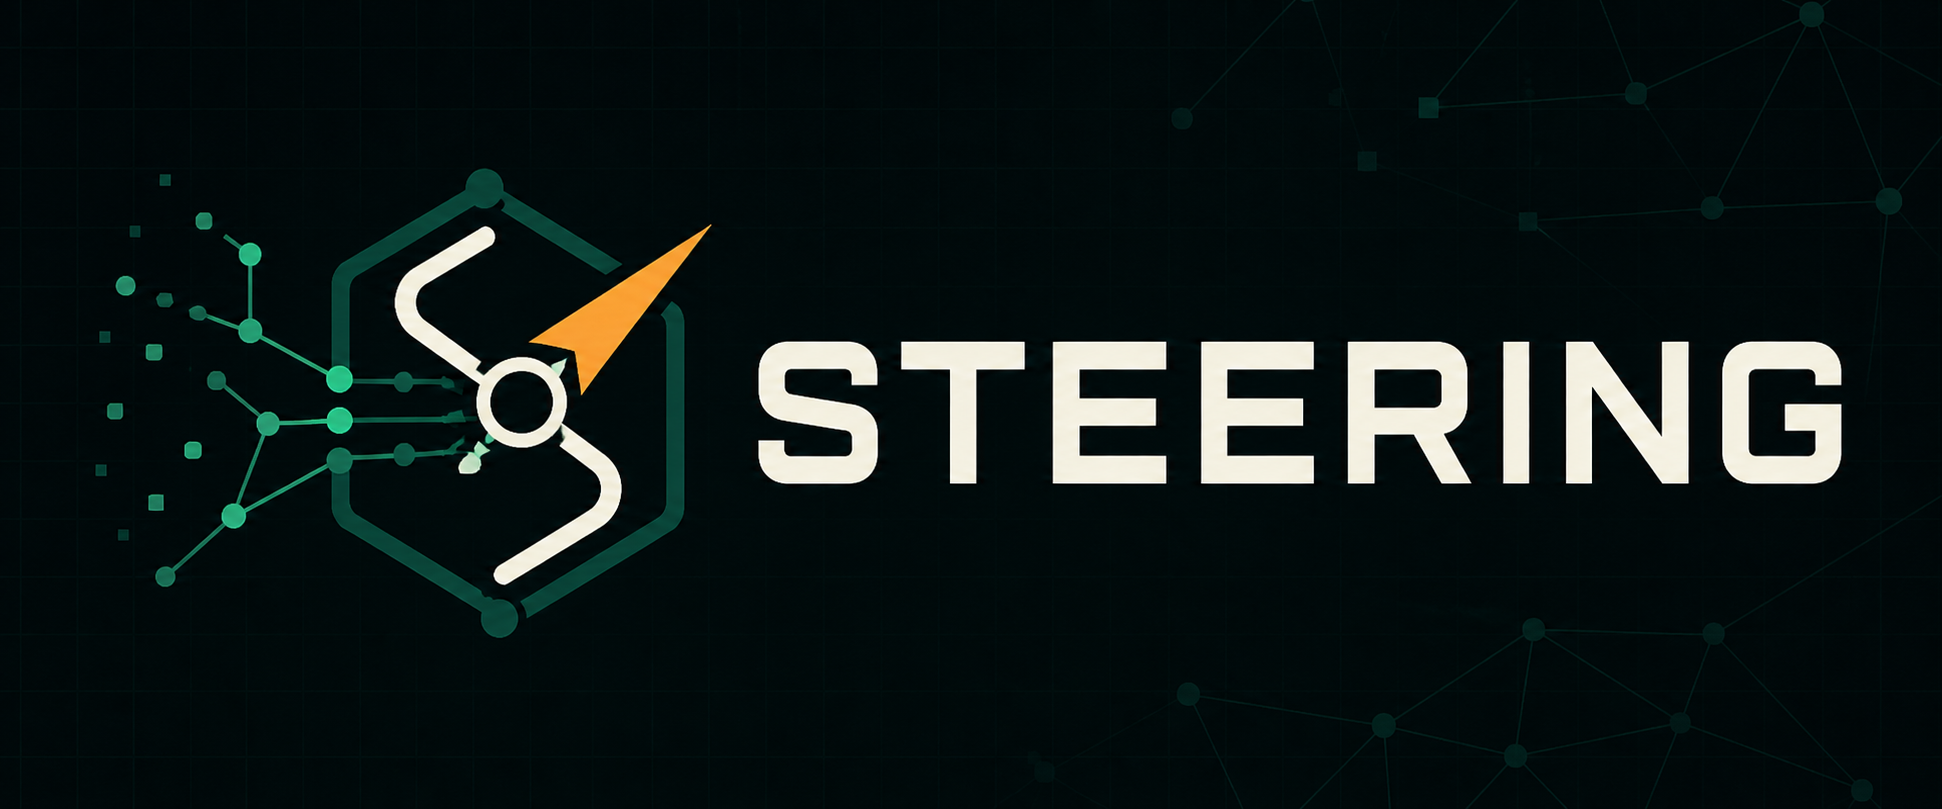
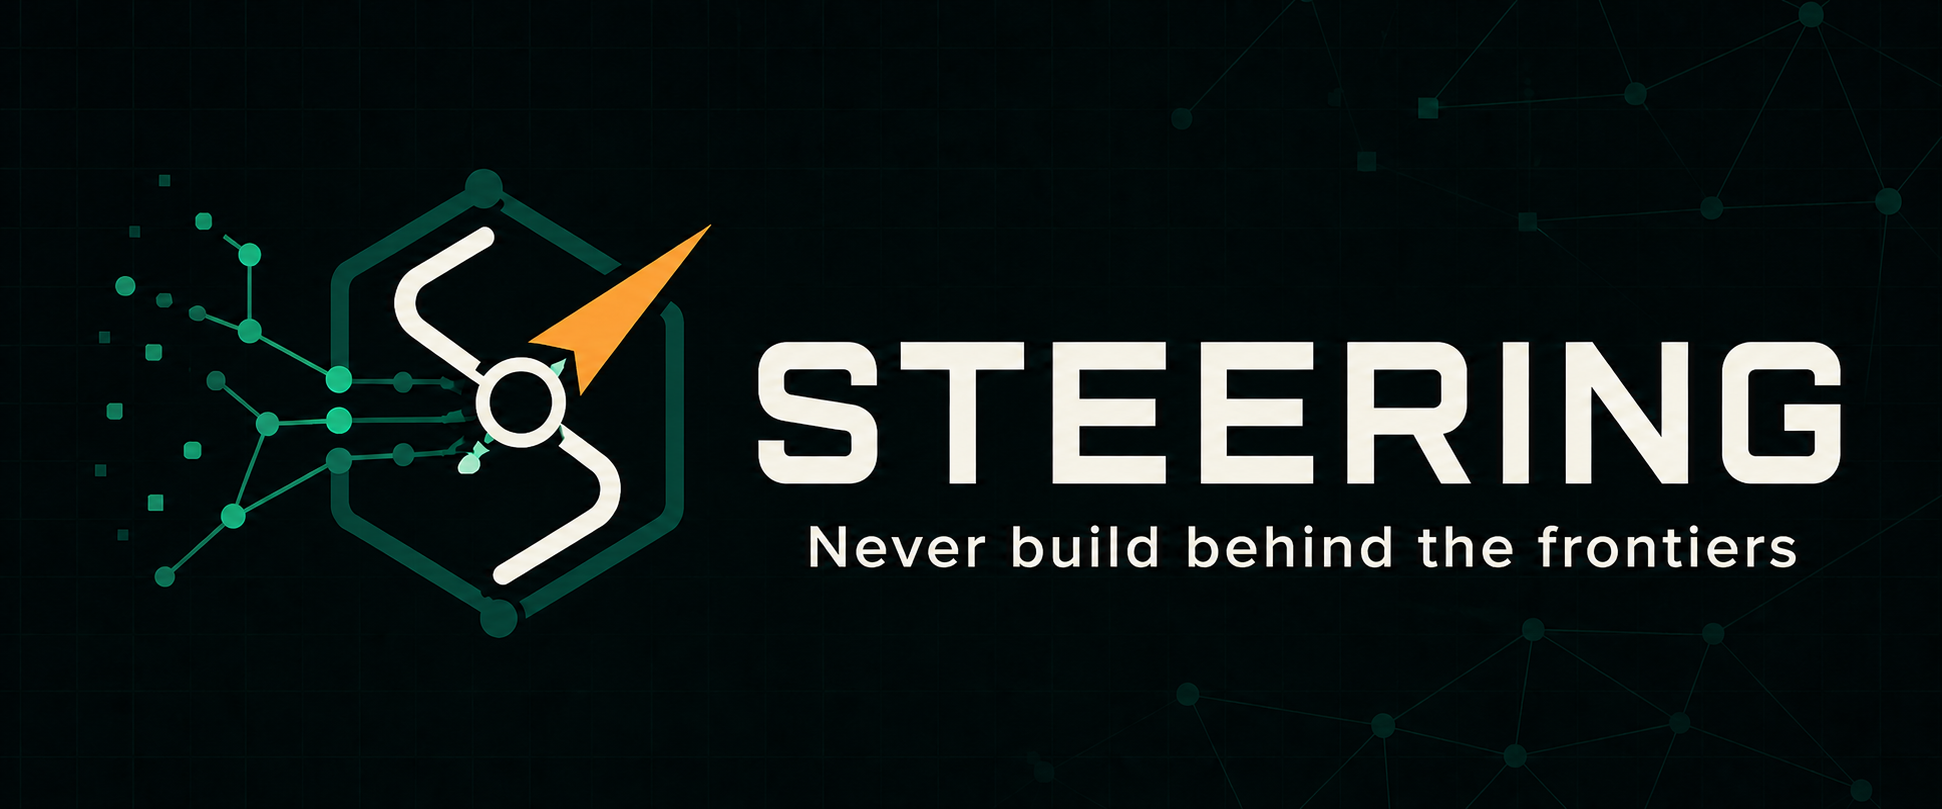
Sharpen README positioning

diff --git a/README.md b/README.md
@@ -36,10 +36,13 @@
 
 ---
 
-STEERING is a local-first engineering memory for the AI work you do not want to lose. Capture the X
-and LinkedIn posts, papers, repositories, documentation, and practical techniques you encounter. It
-turns them into source-backed knowledge, then recalls useful options and tradeoffs while you design
-systems, plan model training, or work through a difficult engineering decision.
+AI engineering moves too fast to rely on memory alone. Every day, you come across new ideas, papers,
+shared tricks, and upgrades on X, LinkedIn, GitHub, and arXiv. STEERING continuously transforms
+evolving research into structured engineering intelligence connected through a knowledge graph.
+Every new discovery becomes connected, searchable, and architecture-ready, so your coding agents
+always design with current knowledge. Query it from Claude Code, Codex, or any MCP-compatible agent.
+Build with today's best ideas, not yesterday's. STEERING is the missing intelligence layer for AI
+engineering today, so every architecture starts from the current frontier.
 
 > [!NOTE]
 > **STEERING is currently at `0.1.0` alpha.** The complete local workflow is implemented; resolver and
